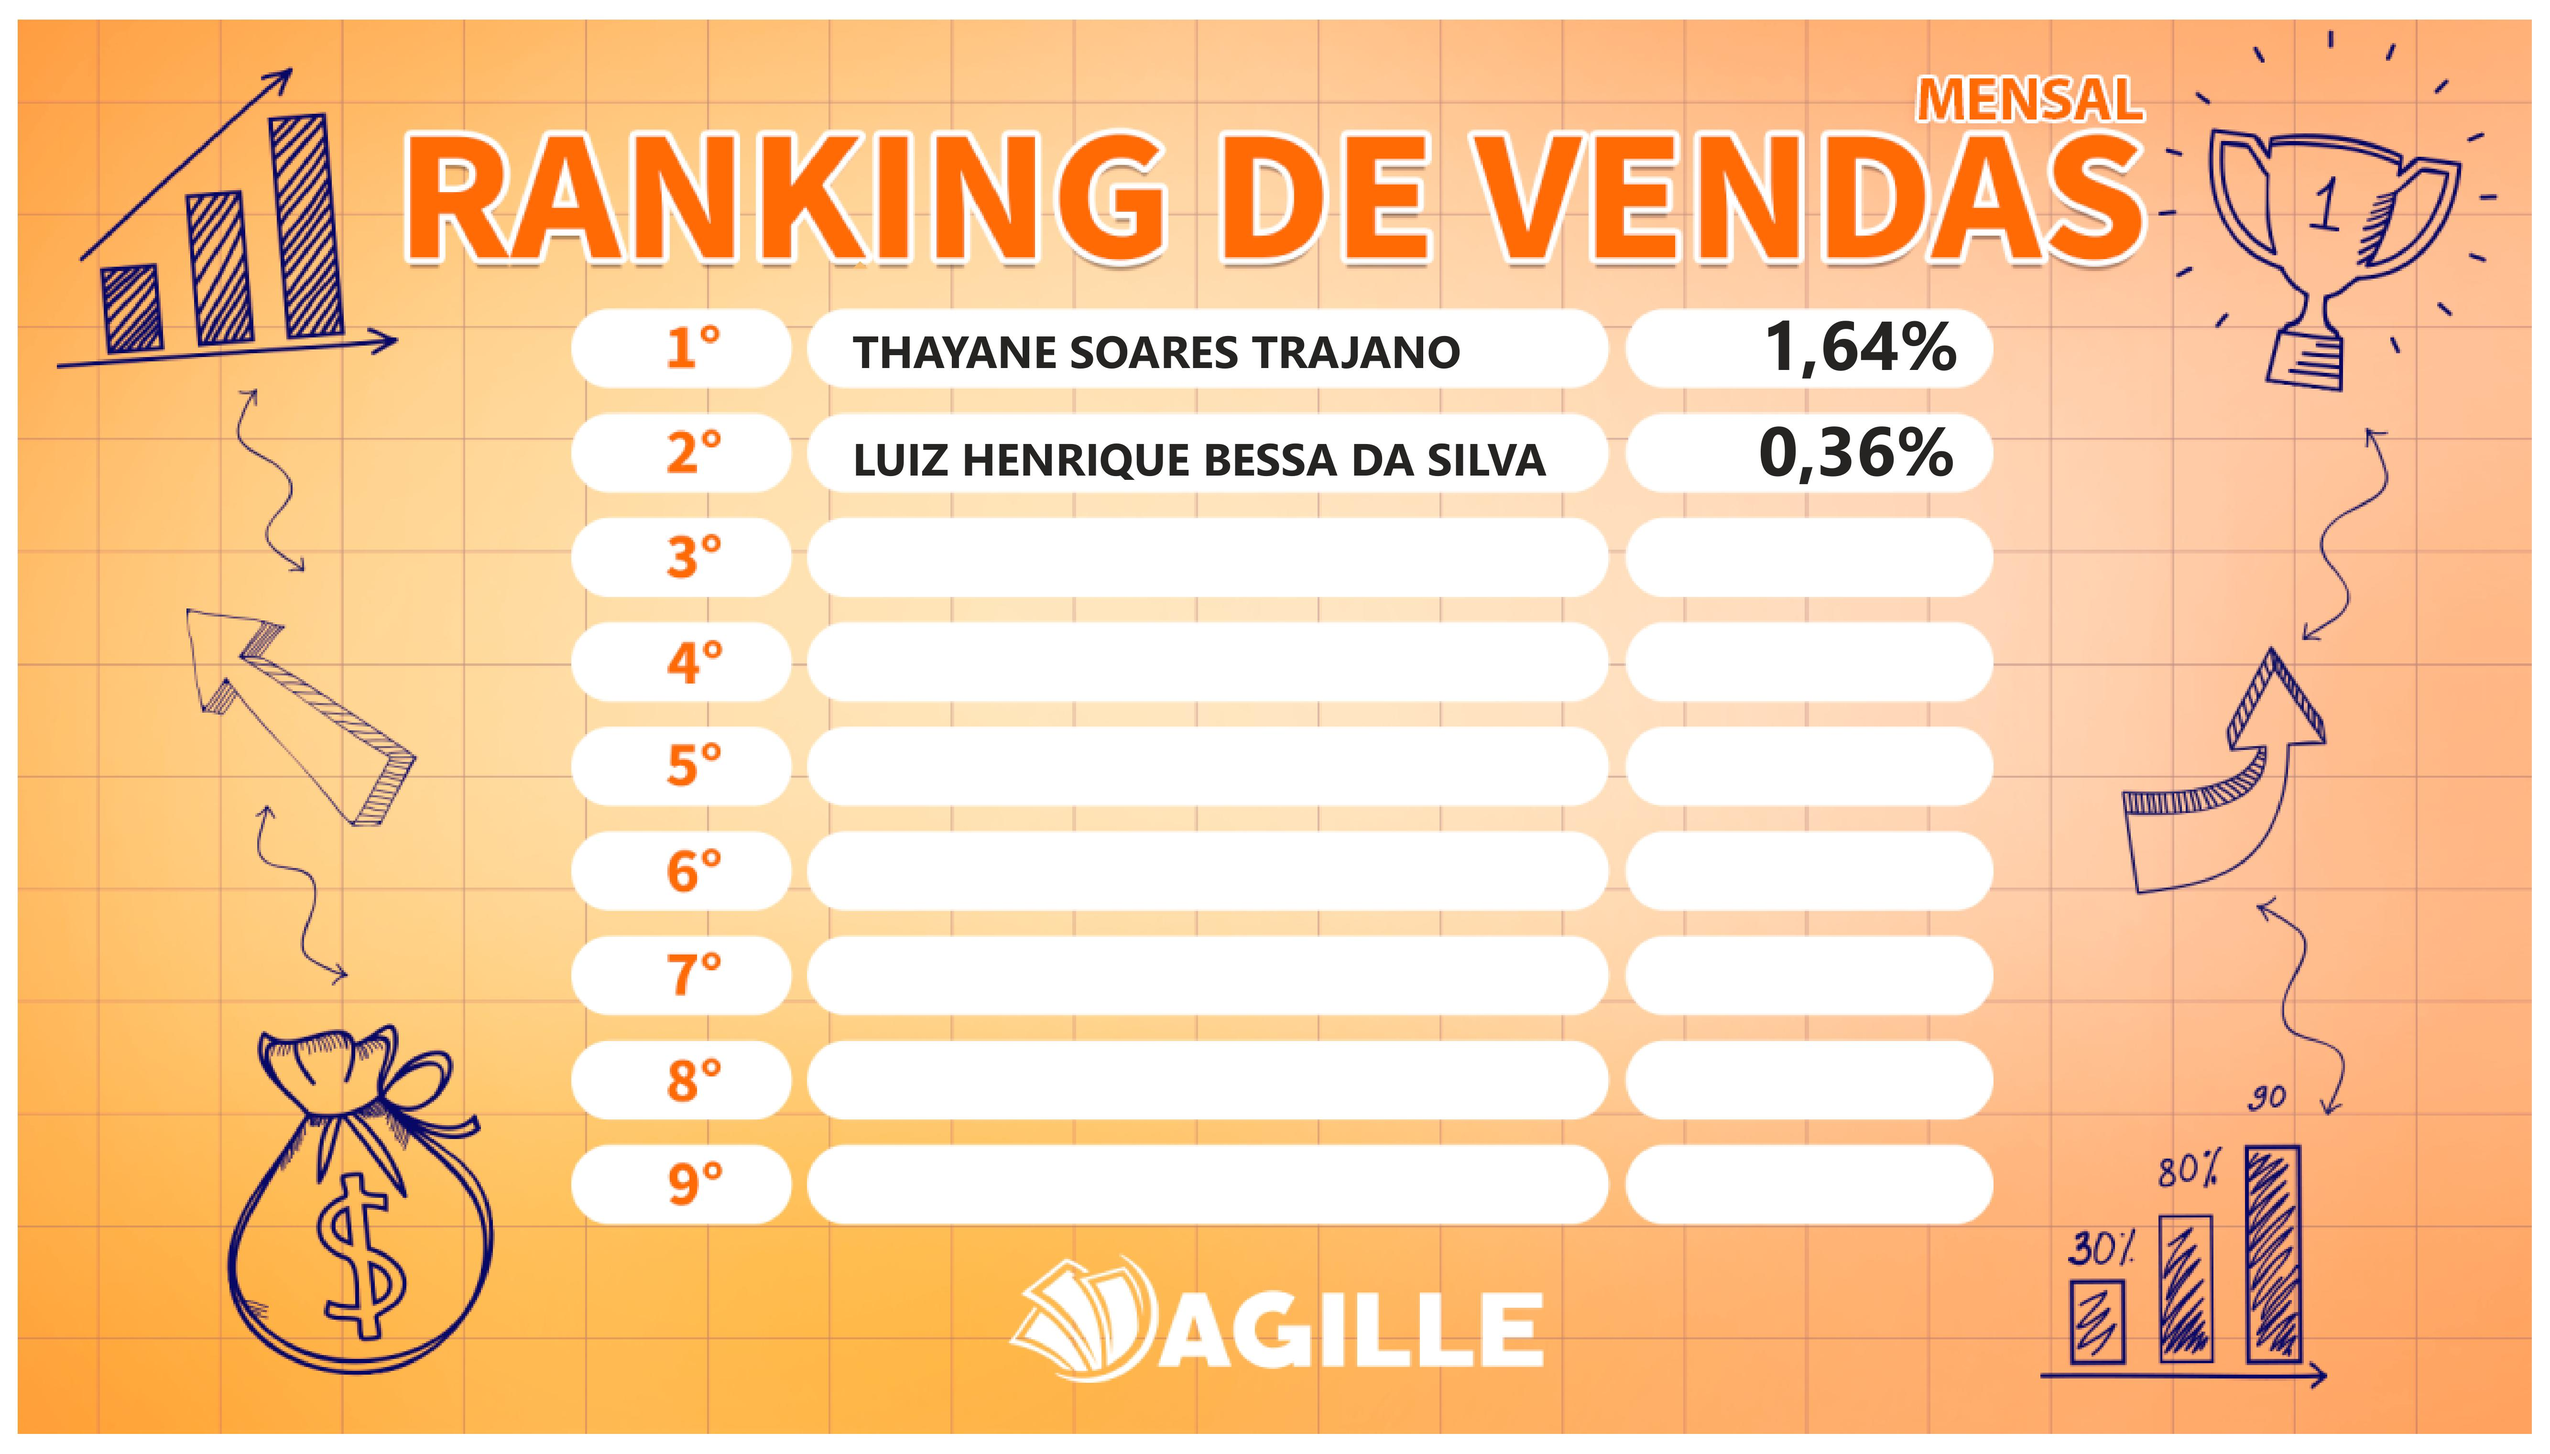
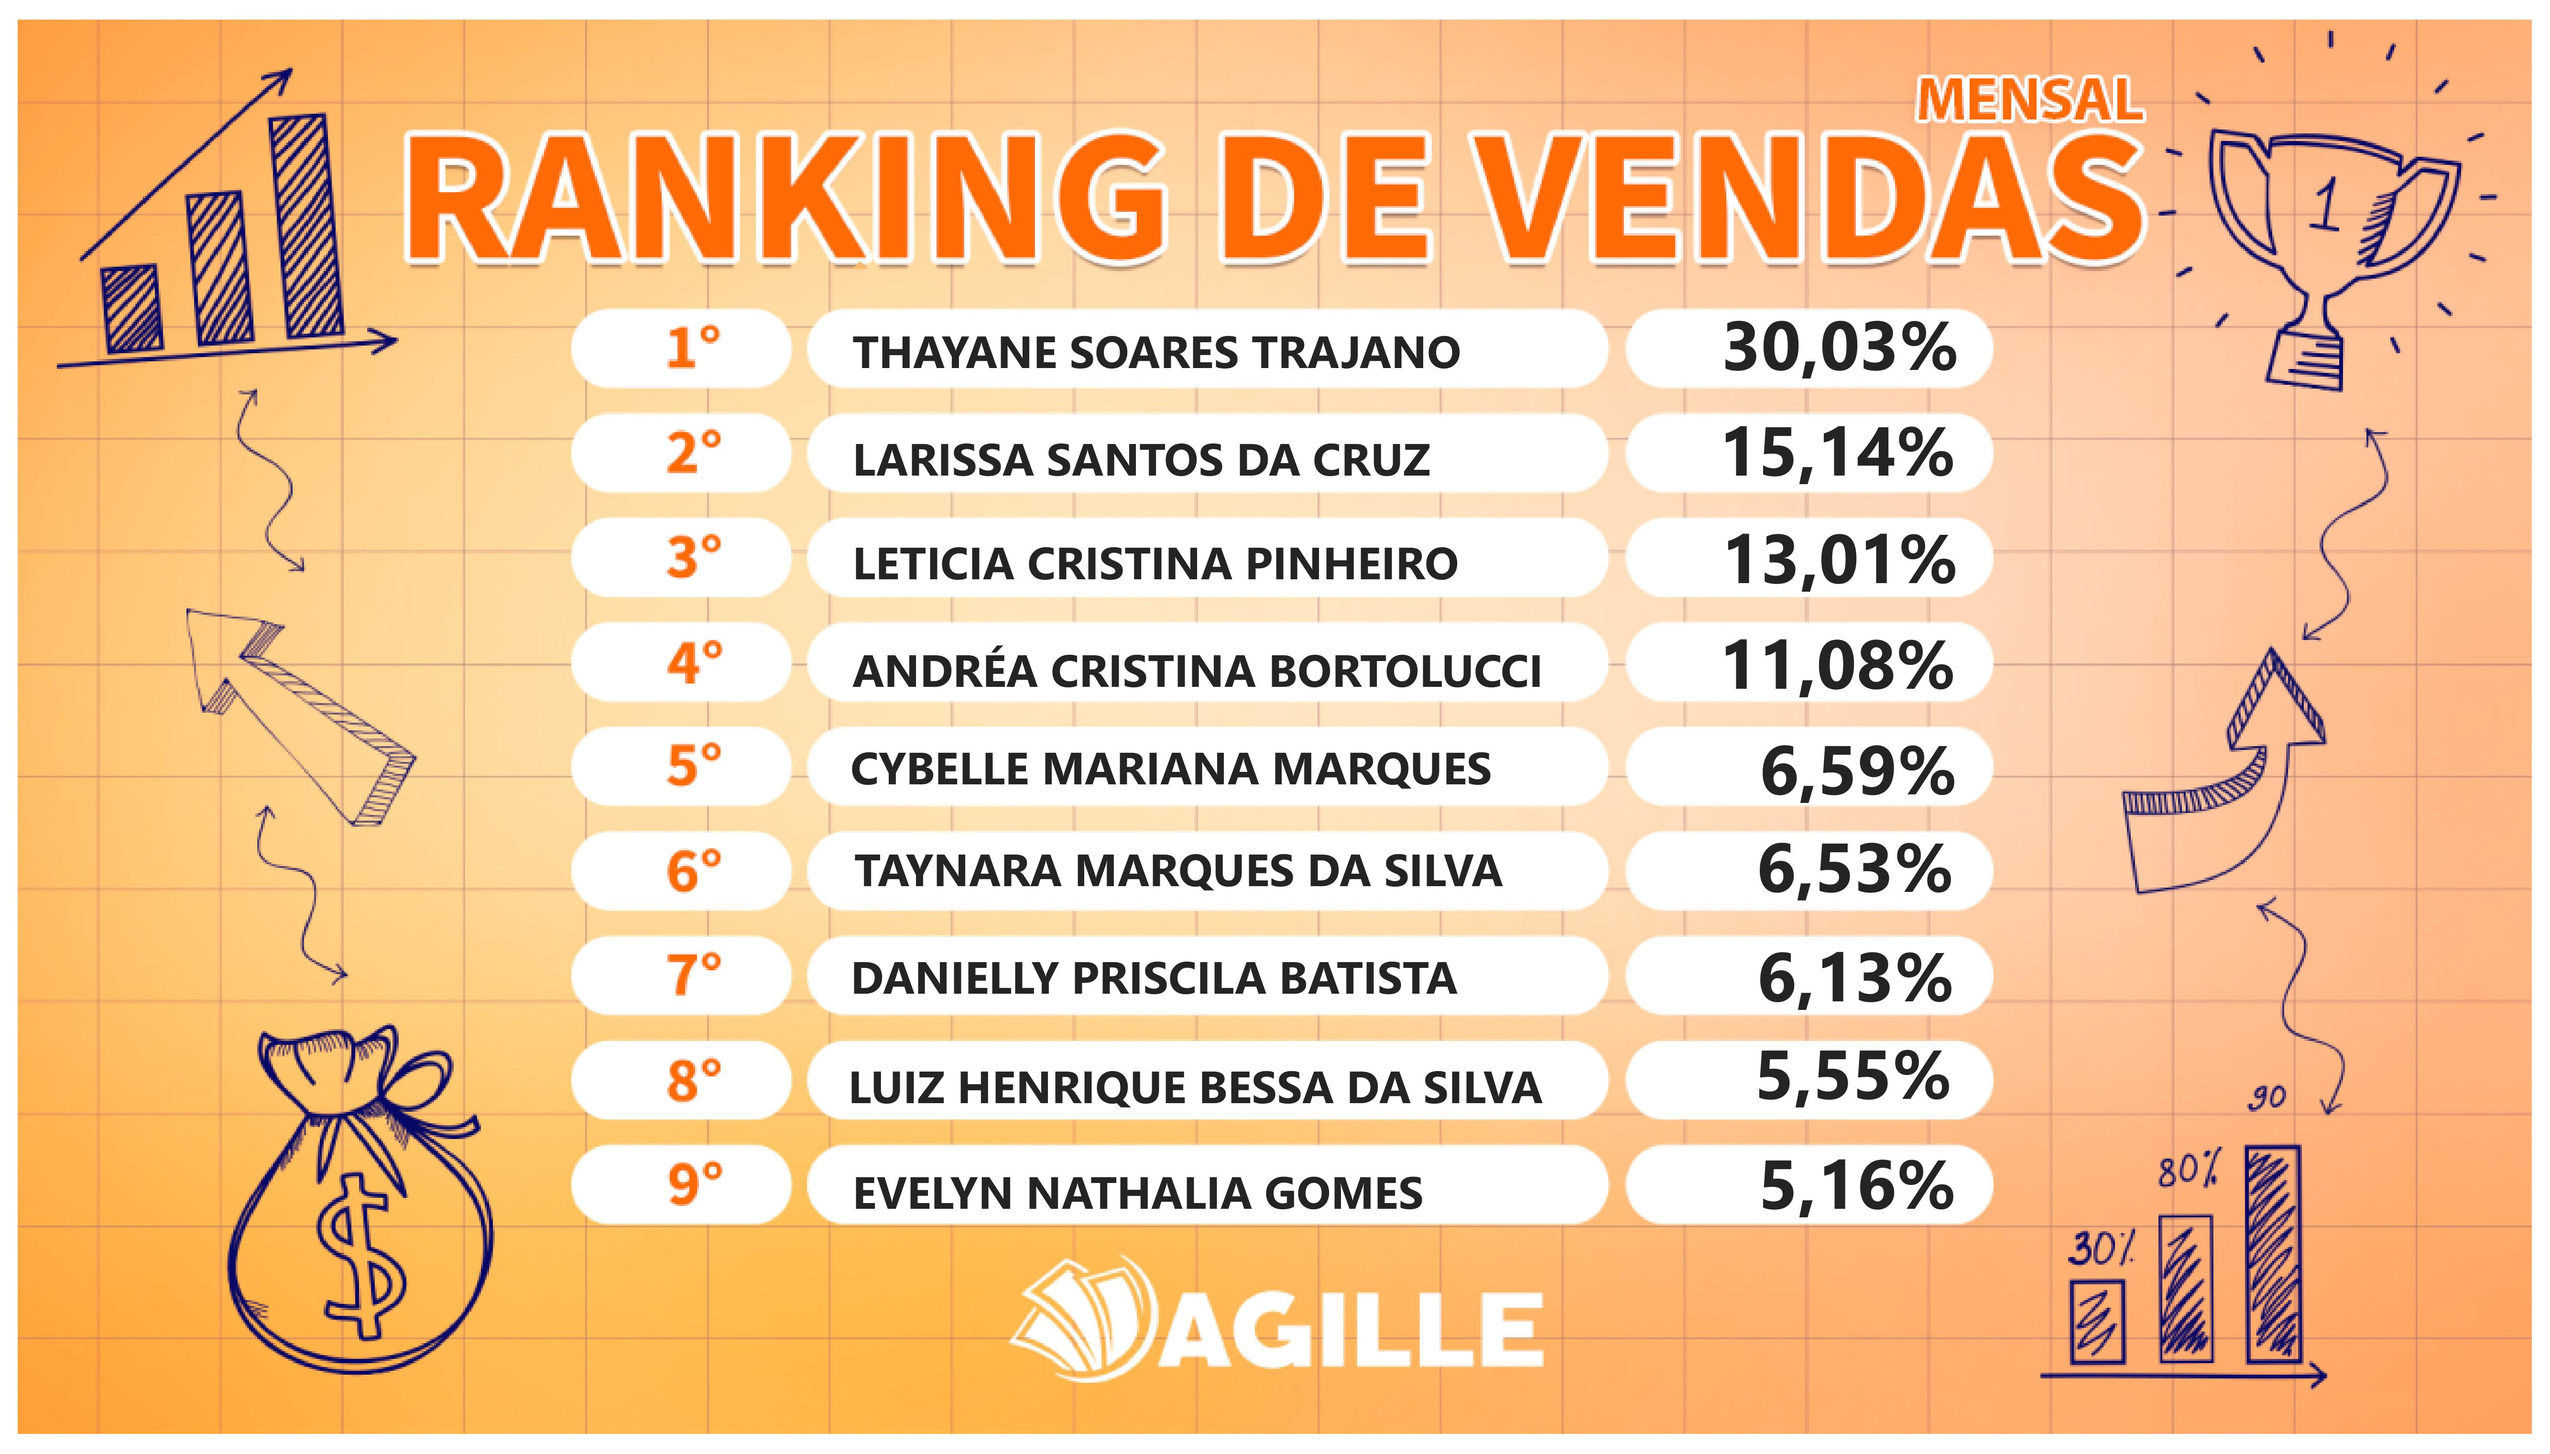
03112023³

diff --git a/index.html b/index.html
@@ -25,9 +25,9 @@
 			<div class="carousel-item" data-bs-interval="15000">
 				<img src="img/3.jpg" class="d-block w-100">
 			</div>
-			<!-- <div class="carousel-item" data-bs-interval="15000">
+			<div class="carousel-item" data-bs-interval="15000">
 				<img src="img/4.png" class="d-block w-100">
-			</div> -->
+			</div>
 			<div class="carousel-item" data-bs-interval="15000">
 				<img src="img/5.png" class="d-block w-100">
 			</div>
